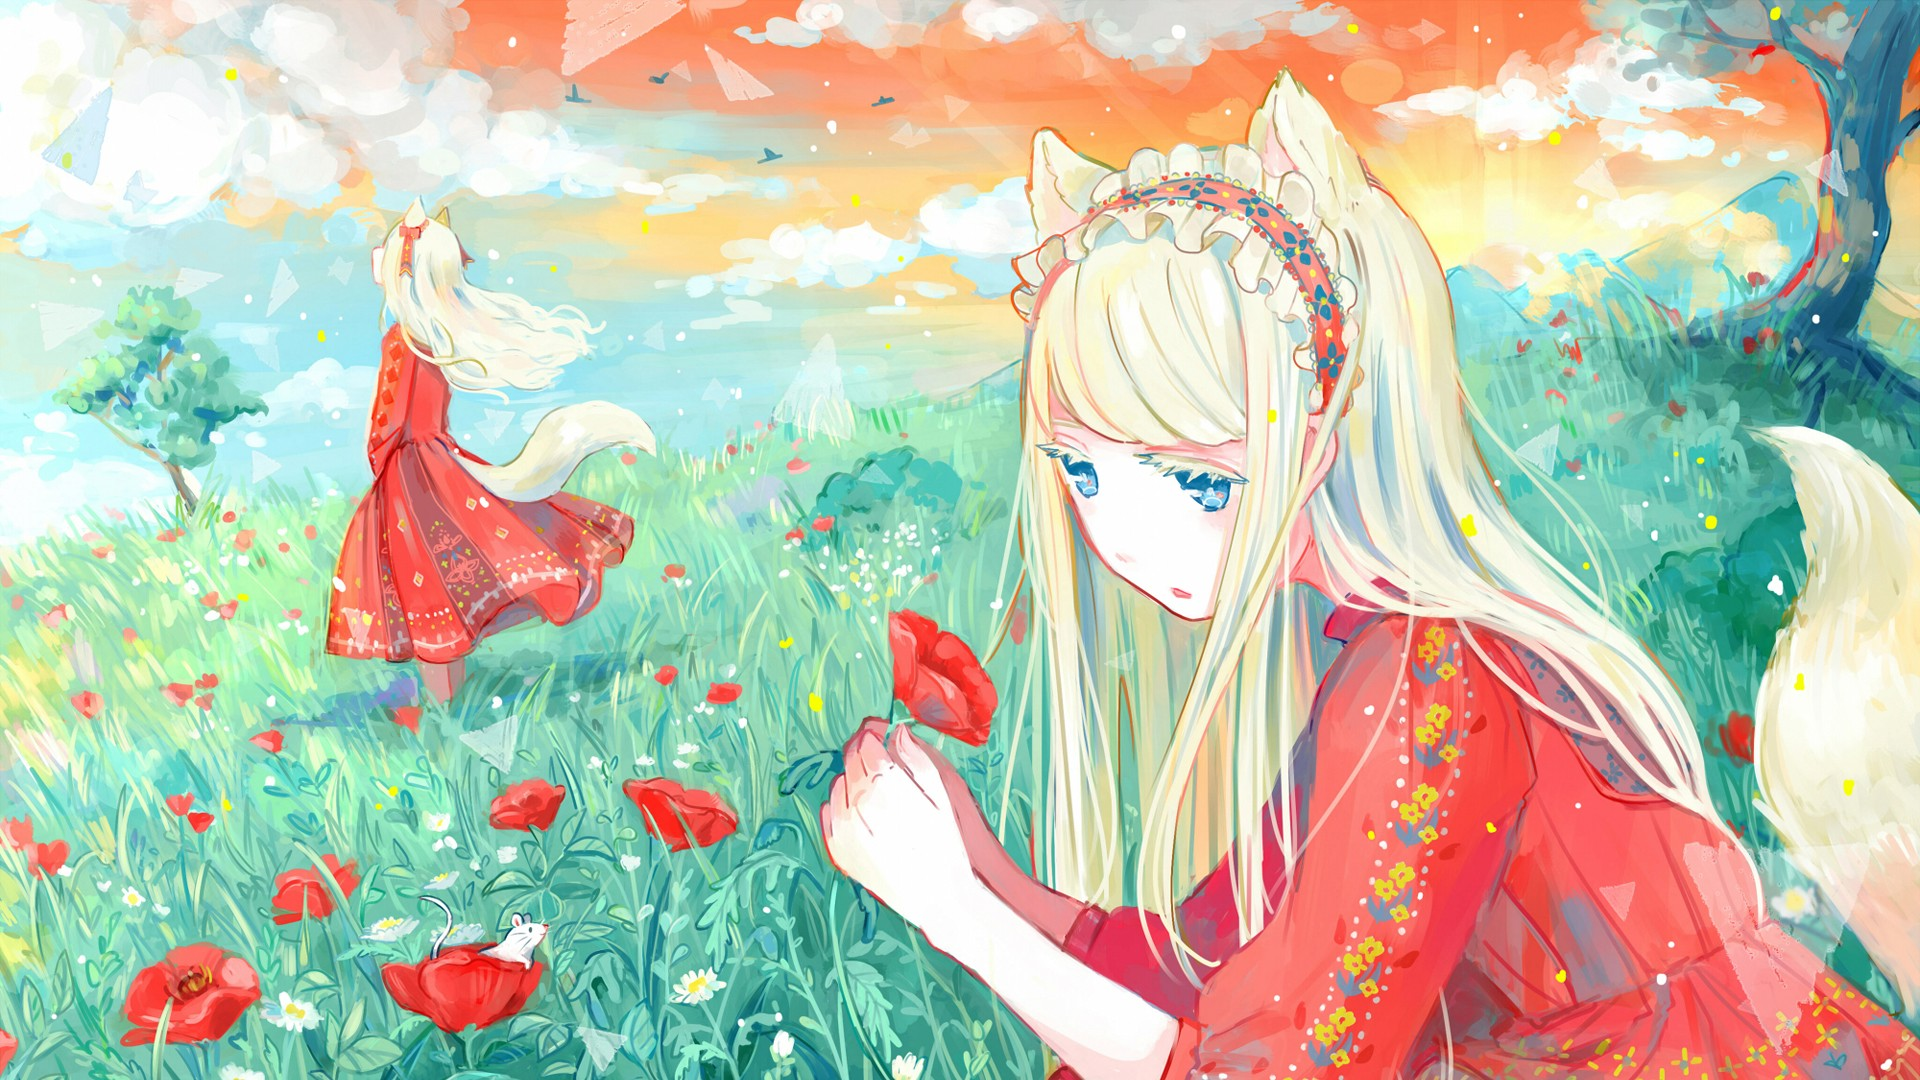
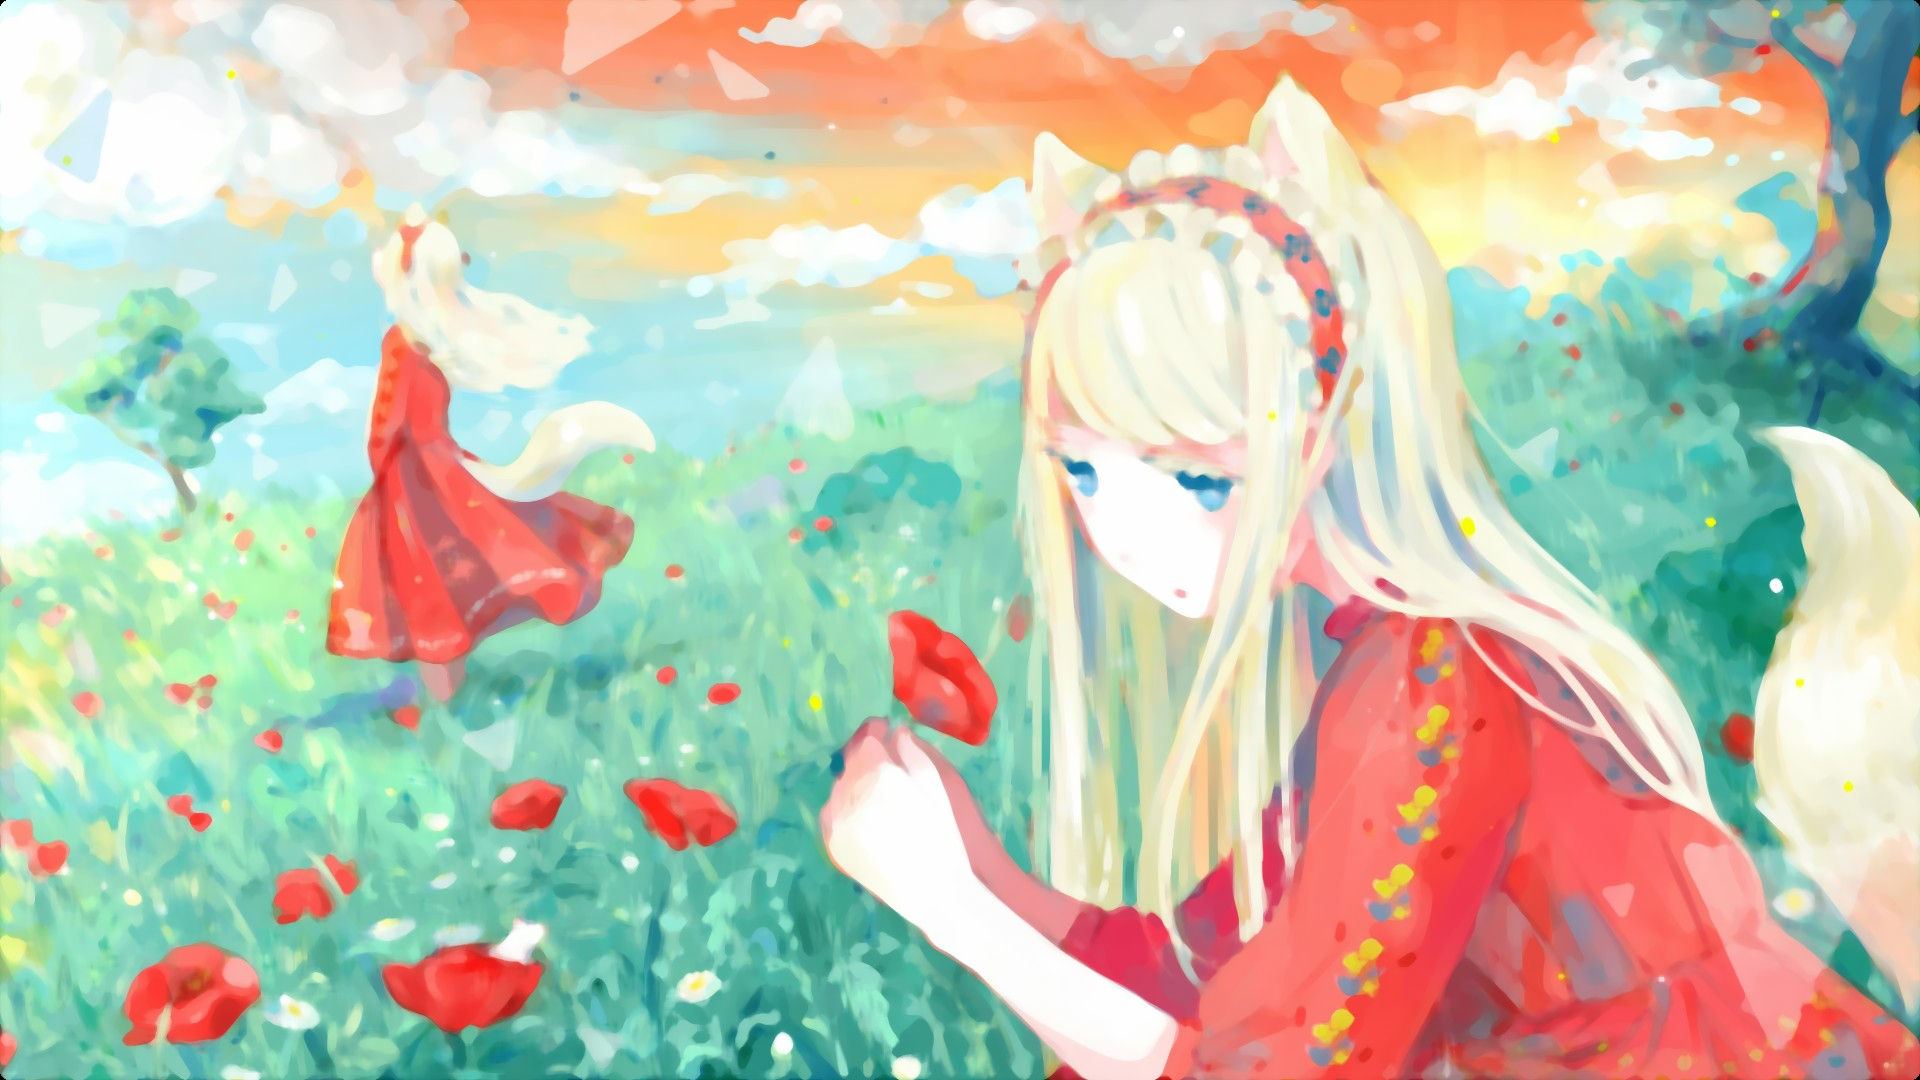
feat(benchmark): add benchmark for MedianBlur function feat(benchmark): add CMakeLists.txt for benchmark feat(MedianBlur.h): add MedianBlur function declaration refactor(MedianFilter.h): remove MedianFilter function declaration feat(MedianBlur.cpp): add MedianBlur function definition refactor(Median

diff --git a/benchmark/BM_MedianBlur.cpp b/benchmark/BM_MedianBlur.cpp
@@ -1,0 +1,50 @@
+#define BM(func)                                                                                   \
+  static void BM_##func(benchmark::State &state) {                                                 \
+    for (auto _ : state) {                                                                         \
+      std::vector<std::string> vec;                                                                \
+      func(vec, global_str, '_');                                                                  \
+    }                                                                                              \
+  }                                                                                                \
+  BENCHMARK(BM_##func);
+
+#include <Image.h>
+#include <MedianBlur.h>
+#include <benchmark/benchmark.h>
+#include <rwimage.h>
+#include <tbb/global_control.h>
+#include <tbb/tbb.h>
+
+using namespace pip;
+
+Image a, b;
+static void BM_MedianBlur33_16(benchmark::State &state) {
+  auto mp = tbb::global_control::max_allowed_parallelism;
+  tbb::global_control gc(mp, 16);
+  read_image(a, (std::string(PROJECTDIR) + "/original.jpg").c_str());
+  for (auto _ : state) {
+    MedianBlur(a, b, 3, 3);
+  }
+}
+BENCHMARK(BM_MedianBlur33_16);
+
+static void BM_MedianBlur33_8(benchmark::State &state) {
+  auto mp = tbb::global_control::max_allowed_parallelism;
+  tbb::global_control gc(mp, 8);
+  read_image(a, (std::string(PROJECTDIR) + "/original.jpg").c_str());
+  for (auto _ : state) {
+    MedianBlur(a, b, 3, 3);
+  }
+}
+BENCHMARK(BM_MedianBlur33_8);
+
+static void BM_MedianBlur33_1(benchmark::State &state) {
+  auto mp = tbb::global_control::max_allowed_parallelism;
+  tbb::global_control gc(mp, 1);
+  read_image(a, (std::string(PROJECTDIR) + "/original.jpg").c_str());
+  for (auto _ : state) {
+    MedianBlur(a, b, 3, 3);
+  }
+}
+BENCHMARK(BM_MedianBlur33_1);
+
+BENCHMARK_MAIN();

diff --git a/pip/src/MedianBlur.cpp b/pip/src/MedianBlur.cpp
@@ -1,0 +1,58 @@
+#include <MedianBlur.h>
+#include <algorithm>
+#include <iostream>
+#include <oneapi/tbb/partitioner.h>
+#include <stdint.h>
+#include <tbb/blocked_range2d.h>
+#include <tbb/partitioner.h>
+#include <tbb/tbb.h>
+
+namespace pip {
+
+// TODO: design base filter
+
+void Blur_2D(const Image &inImg, Image &outImg, int row, int col, int ch, int mask_w, int mask_h) {
+  std::vector<Image::value_type> arr;
+  int n = mask_h * mask_w;
+  arr.reserve(n);
+
+  for (int r = row - (mask_h >> 1); r <= row + (mask_h >> 1); ++r) {
+    for (int c = col - (mask_w >> 1); c <= col + (mask_w >> 1); ++c) {
+      arr.push_back(inImg(c, r, ch));
+    }
+  }
+
+  std::nth_element(arr.begin(), arr.begin() + n / 2, arr.end());
+  outImg(col, row, ch) = arr[n >> 1];
+  return;
+}
+
+void MedianBlur(const Image &in_img, Image &out_img, int mask_width, int mask_height) {
+  auto [width, height, channel] = in_img.shape();
+  out_img.reshape(width, height, channel);
+  constexpr size_t blocksize = 16;
+
+  for (int ch = 0; ch < channel; ++ch) {
+    tbb::parallel_for(
+        tbb::blocked_range2d<size_t, size_t>{0, height, blocksize, 0, width, blocksize},
+        [&](const tbb::blocked_range2d<size_t, size_t> &range) {
+          // std::cout << "row:" << ((r.rows().begin() + r.rows().end()) >> 1)
+          //           << "col:" << ((r.cols().begin() + r.cols().end()) >> 1) << std::endl;
+
+          // thread local
+          int r_begin = range.rows().begin();
+          int r_end = range.rows().end();
+          int c_begin = range.cols().begin();
+          int c_end = range.cols().end();
+
+          for (int r = r_begin; r < r_end; ++r) {
+            for (int c = c_begin; c < c_end; ++c) {
+              Blur_2D(in_img, out_img, r, c, ch, mask_width, mask_height);
+            }
+          }
+        },
+        tbb::simple_partitioner{});
+  }
+}
+
+} // namespace pip

diff --git a/main.cpp b/main.cpp
@@ -1,11 +1,10 @@
 #include <Image.h>
-#include <MedianFilter.h>
+#include <MedianBlur.h>
 #include <benchmark/benchmark.h>
 #include <iostream>
-#include <oneapi/tbb/global_control.h>
 #include <rwimage.h>
+#include <tbb/global_control.h>
 #include <tbb/tbb.h>
-#include <vcruntime.h>
 #include <vector>
 
 using namespace std;
@@ -14,12 +13,12 @@ using namespace pip;
 int main() {
   Image a, b;
   read_image(a, (std::string(PROJECTDIR) + "/original.jpg").c_str());
-  write_image(a, (std::string(PROJECTDIR) + "/test.jpg").c_str());
-  auto mp = tbb::global_control::max_allowed_parallelism;
-  tbb::global_control gc(mp, 1);
-  MedianFilter(a, a, 3, 3);
-  int ss = 1;
-  cout << "Hello PIP!" << endl;
-  tbb::parallel_invoke([]() { cout << " Hello " << endl; }, []() { cout << " TBB! " << endl; });
+  MedianBlur(a, b, 3, 3);
+  write_image(b, (std::string(PROJECTDIR) + "/test.jpg").c_str());
+  // auto mp = tbb::global_control::max_allowed_parallelism;
+  // tbb::global_control gc(mp, 1);
+  // int ss = 1;
+  // cout << "Hello PIP!" << endl;
+  // tbb::parallel_invoke([]() { cout << " Hello " << endl; }, []() { cout << " TBB! " << endl; });
   return 0;
 }

diff --git a/pip/include/MedianBlur.h b/pip/include/MedianBlur.h
@@ -1,0 +1,9 @@
+#pragma once
+
+#include <Image.h>
+
+namespace pip {
+
+void MedianBlur(const Image &in, Image &out, int mask_width, int mask_height);
+
+}
